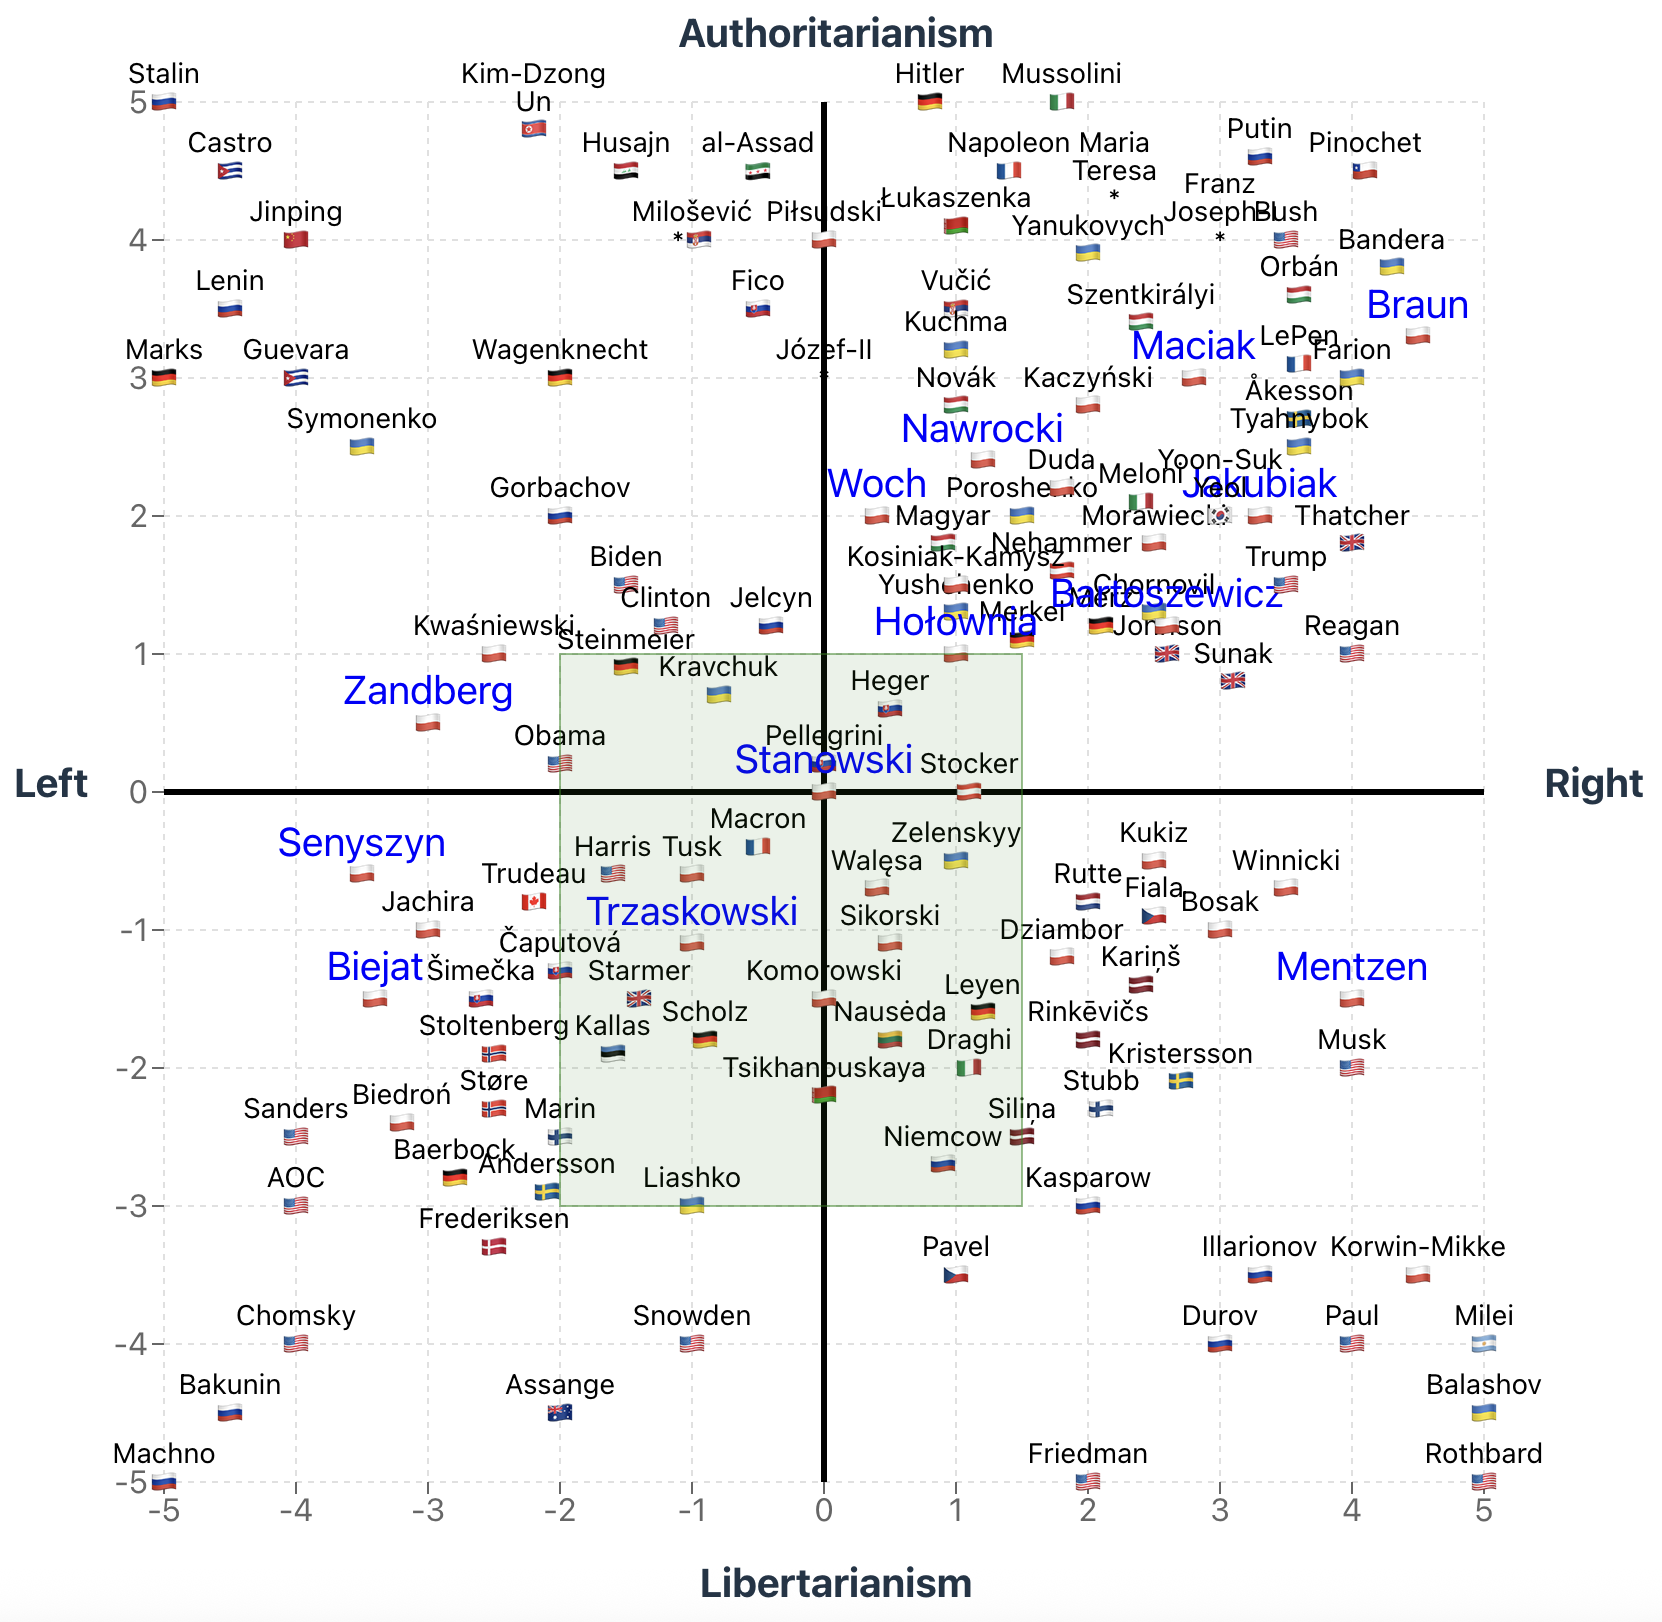
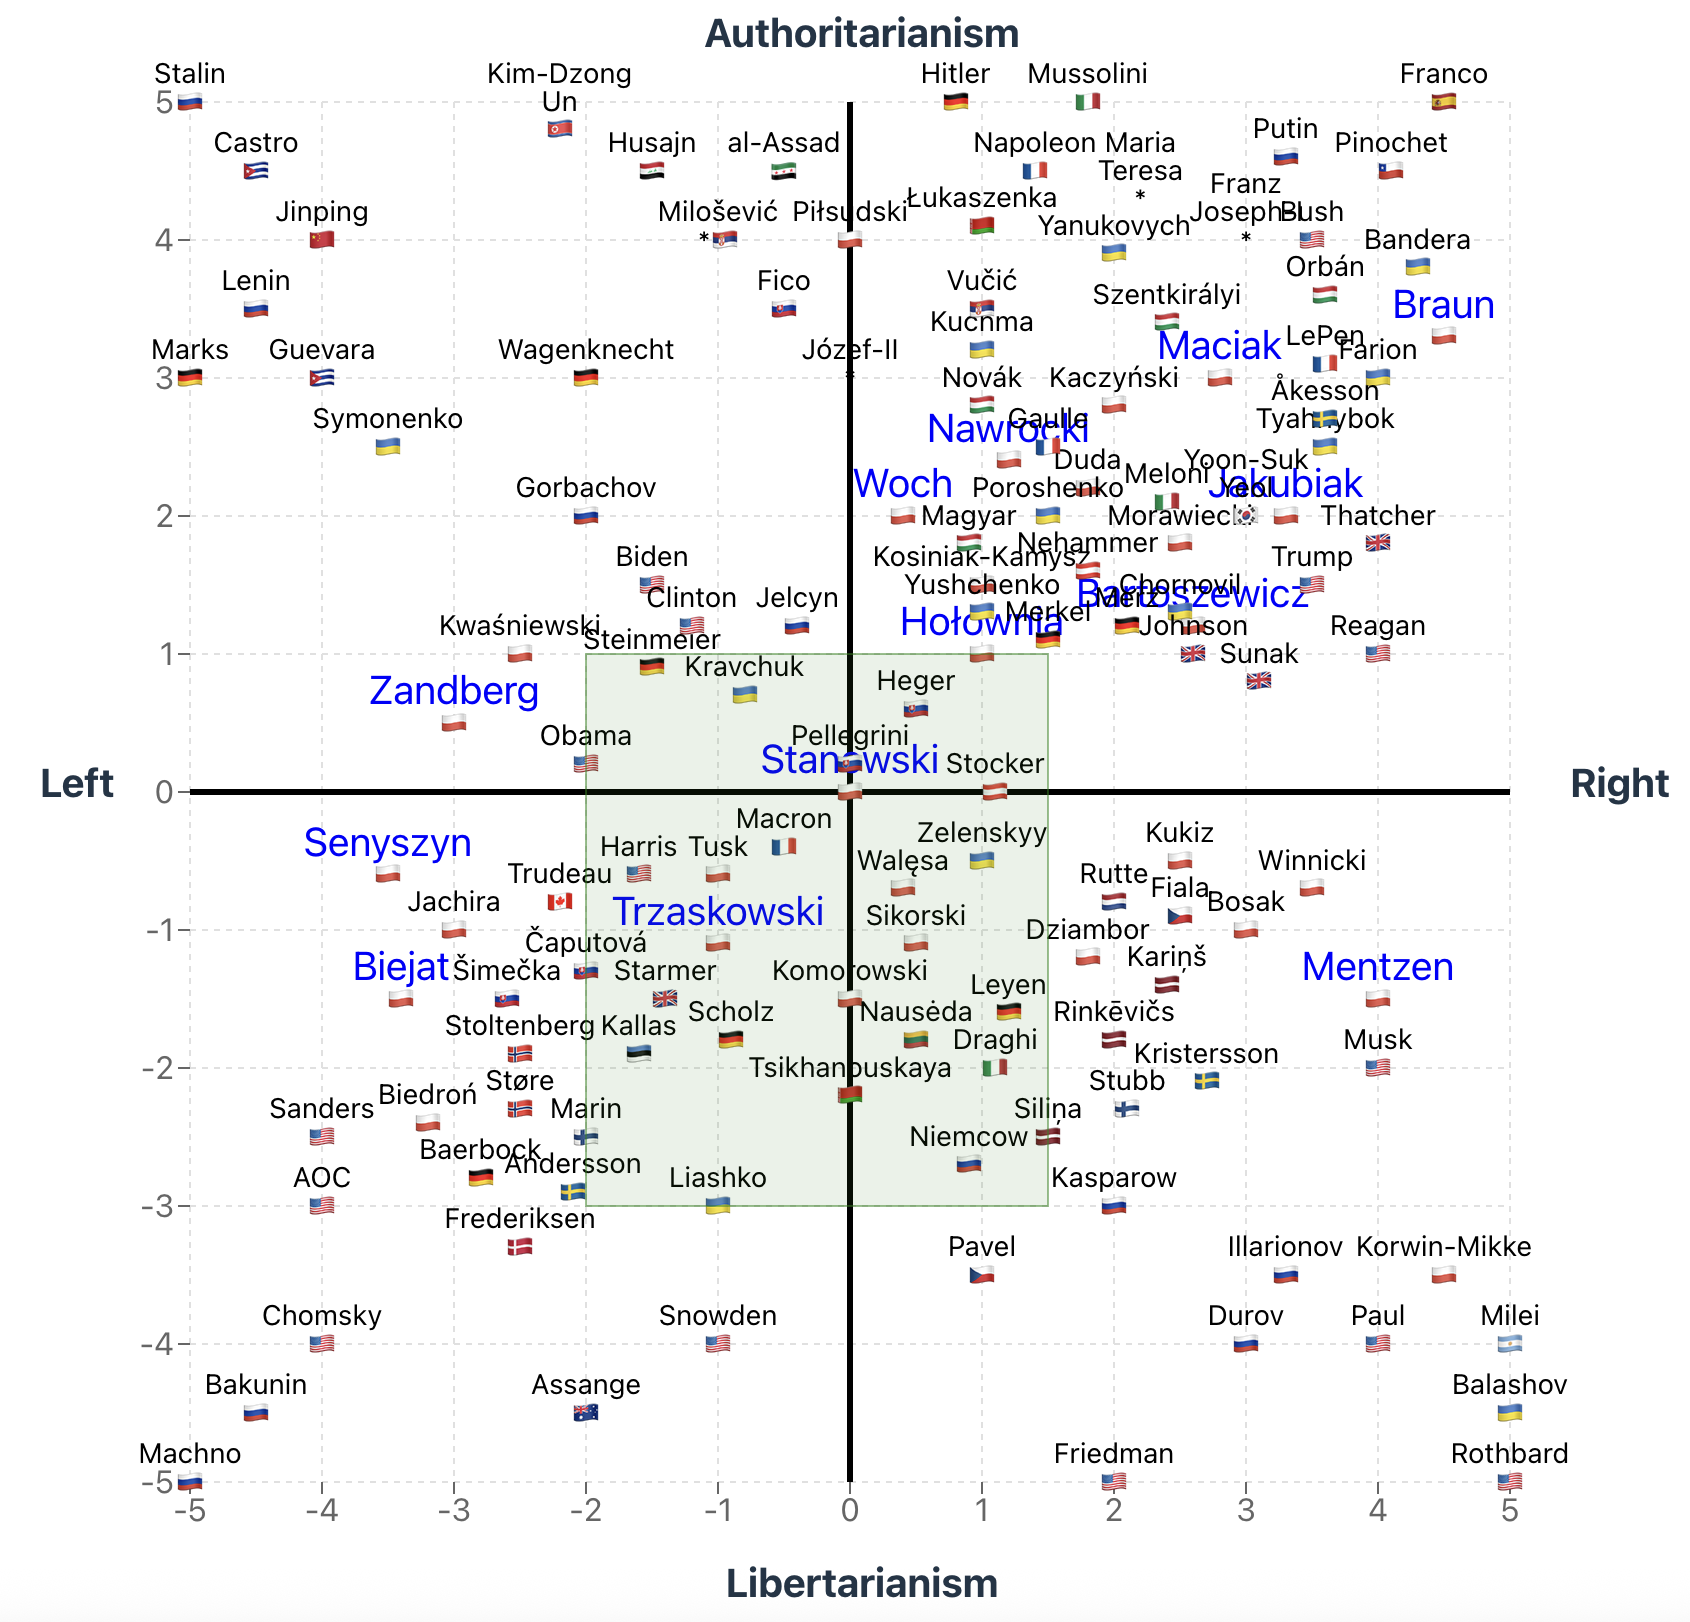
Added Franco and de Gaulle

diff --git a/src/common/helpers.ts b/src/common/helpers.ts
@@ -78,10 +78,7 @@ export const leftColumnData: DataKind[] = [
   "world",
 ];
 
-export const rightColumnData: DataKind[] = [
-  "lang",
-  // showAndrii
-];
+export const rightColumnData: DataKind[] = ["lang"];
 
 export const DEFAULT_SCATTERS_IDS: DataKind[] = ["poland2025", "polandOther"];
 

diff --git a/README.md b/README.md
@@ -11,8 +11,8 @@ Green rectangle is "my political views" area. Other dots represent political peo
 
 ![v2-poland](./images/v2-poland.png)
 
-![v2-other-1](./images/v2-other-1.png)
-![v2-other-2](./images/v2-other-2.png)
+![v2-other-ua-ru](./images/v2-other-ua-ru.png)
+![v2-other-ue](./images/v2-other-ue.png)
 ![v2-other-all](./images/v2-other-all.png)
 
 And [here](https://alundiak.github.io/polityczny-kompas/politica.html) is previous, my initial very basic version using basic HTML/SVG.
